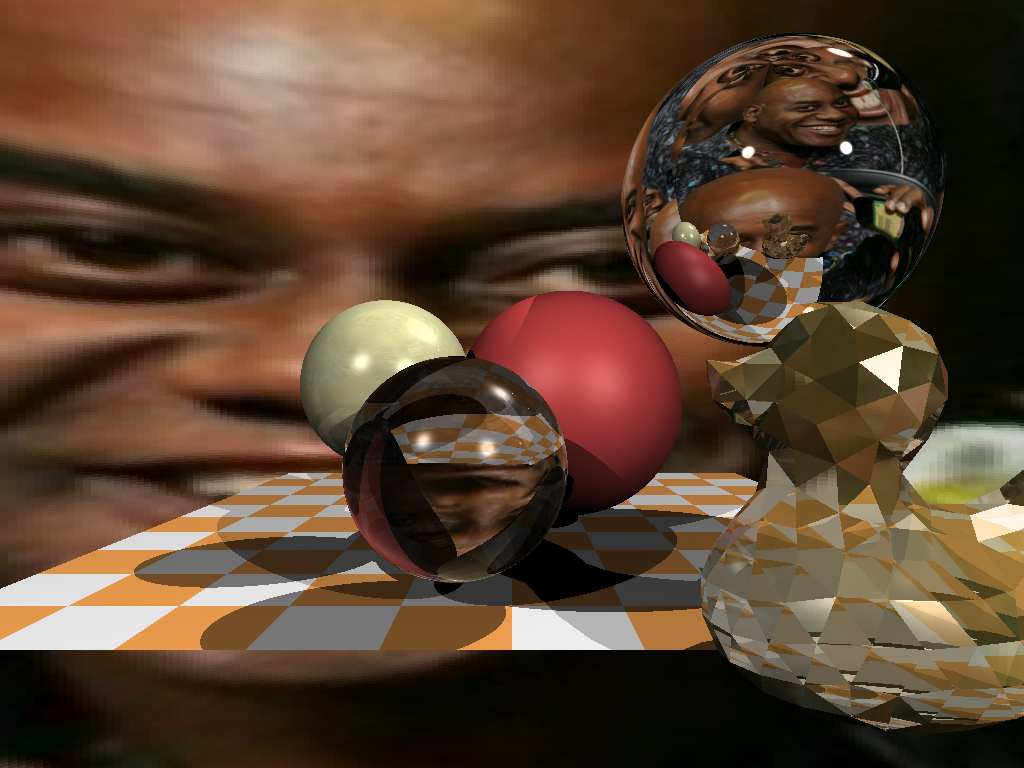
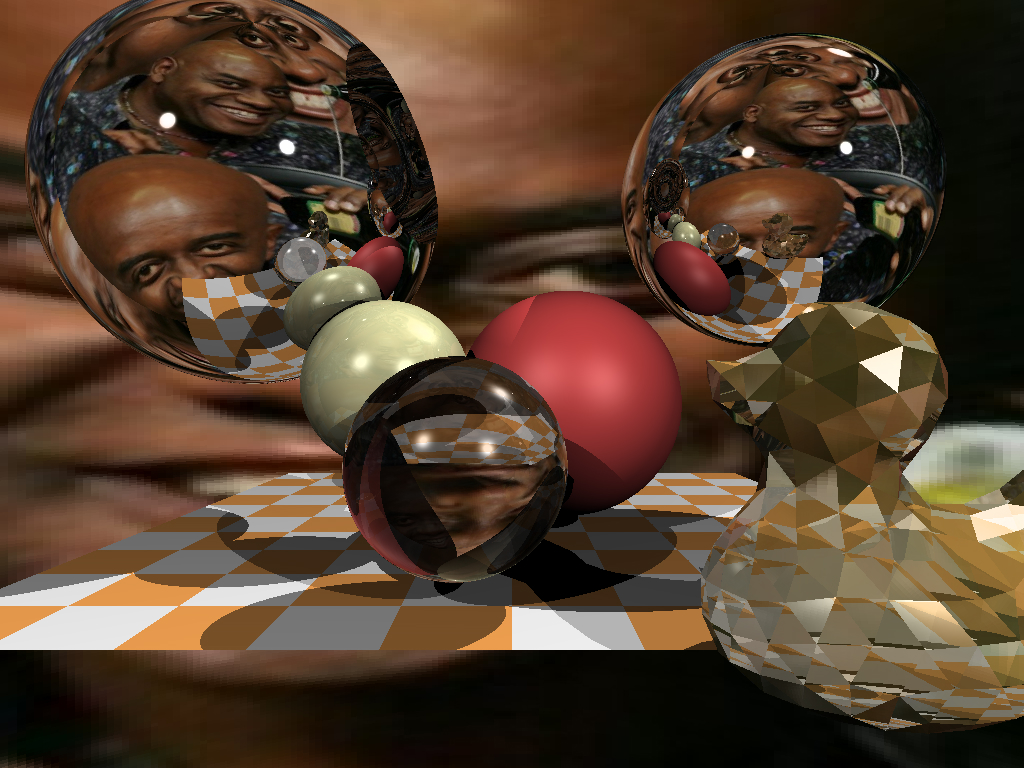
mise en place soustraction de forme

diff --git a/tinyraytracer.cpp b/tinyraytracer.cpp
@@ -52,6 +52,17 @@ struct Sphere {
         if (t0 < 0) return false;
         return true;
     }
+
+    float get_opposed(const Vec3f &orig, const Vec3f &dir) const {
+      Vec3f L = center - orig;
+      float tca = L*dir;
+      float d2 = L*L - tca*tca;
+      float thc = sqrtf(radius*radius - d2);
+      float t0 = tca - thc;
+      float t1 = tca + thc;
+      if (t1 <= 0) t1 = t0;
+      return t1;
+    }
 };
 
 Vec3f reflect(const Vec3f &I, const Vec3f &N) {
@@ -66,15 +77,43 @@ Vec3f refract(const Vec3f &I, const Vec3f &N, const float eta_t, const float eta
     return k<0 ? Vec3f(1,0,0) : I*eta + N*(eta*cosi - sqrtf(k)); // k<0 = total reflection, no ray to refract. I refract it anyways, this has no physical meaning
 }
 
+std::vector<Sphere> sub;
+
 bool scene_intersect(const Vec3f &orig, const Vec3f &dir, const std::vector<Sphere> &spheres, Vec3f &hit, Vec3f &N, Material &material) {
     float spheres_dist = std::numeric_limits<float>::max();
     for (size_t i=0; i < spheres.size(); i++) {
         float dist_i;
+        float dist_i2;
         if (spheres[i].ray_intersect(orig, dir, dist_i) && dist_i < spheres_dist) {
-            spheres_dist = dist_i;
-            hit = orig + dir*dist_i;
-            N = (hit - spheres[i].center).normalize();
-            material = spheres[i].material;
+            for (size_t j=0; j < sub.size(); j++) {
+                float dist = pow(pow(spheres[i].center.x-sub[j].center.x, 2)+pow(spheres[i].center.y-sub[j].center.y, 2)+pow(spheres[i].center.z-sub[j].center.z, 2), 0.5);
+                if(dist<spheres[i].radius+sub[j].radius){
+                    if (sub[j].ray_intersect(orig, dir, dist_i2) && dist_i2 <= spheres_dist) {
+                        if(dist_i<dist_i2){
+                            spheres_dist = dist_i;
+                            hit = orig + dir*(dist_i);
+                            N = (hit - spheres[i].center).normalize();
+                            material = spheres[i].material;
+                        }
+                        else if(sub[j].get_opposed(orig, dir)<spheres[i].get_opposed(orig, dir)){
+                            spheres_dist = sub[j].get_opposed(orig, dir);
+                            hit = orig + dir*sub[j].get_opposed(orig, dir);
+                            N = (hit - sub[j].center).normalize();
+                            material = spheres[i].material;
+                        }
+                    }else{
+                        spheres_dist = (dist_i);
+                        hit = orig + dir*(dist_i);
+                        N = (hit - spheres[i].center).normalize();
+                        material = spheres[i].material;
+                    }
+                }else{
+                    spheres_dist = dist_i;
+                    hit = orig + dir*dist_i;
+                    N = (hit - spheres[i].center).normalize();
+                    material = spheres[i].material;
+                }
+            }
         }
     }
 
@@ -201,12 +240,16 @@ int main() {
     spheres.push_back(Sphere(Vec3f(-3,    0,   -16), 2,      ivory));
     spheres.push_back(Sphere(Vec3f(-1.0, -1.5, -12), 2,      glass));
     spheres.push_back(Sphere(Vec3f( 1.5, -0.5, -18), 3, red_rubber));
+    spheres.push_back(Sphere(Vec3f( -7, 5, -18), 5,         mirror));
     spheres.push_back(Sphere(Vec3f( 7,    5,   -18), 4,     mirror));
 
     std::vector<Light>  lights;
     lights.push_back(Light(Vec3f(-20, 20,  20), 1.5));
     lights.push_back(Light(Vec3f( 30, 50, -25), 1.8));
     lights.push_back(Light(Vec3f( 30, 20,  30), 1.7));
+
+    sub.push_back(Sphere(Vec3f(-3,    6,   -17), 2.5,      red_rubber));
+
     render(spheres, lights);
 
     return 0;

diff --git a/Readme.md b/Readme.md
@@ -1,0 +1,28 @@
+# Homework assignment
+
+Add environment maps:
+![](https://raw.githubusercontent.com/ssloy/tinyraytracer/homework_assignment/out-envmap.jpg)
+
+... and triangulated meshes:
+![](https://raw.githubusercontent.com/ssloy/tinyraytracer/homework_assignment/out-envmap-duck.jpg)
+
+All the boring code (image/obj files serializer etc) is already there; to obtain the above image it suffices to add 10-20 lines of code.
+
+
+## compilation
+```sh
+git clone --recurse-submodules https://github.com/ssloy/tinyraytracer.git
+cd tinyraytracer
+git checkout homework_assignment
+git submodule update --init
+mkdir build
+cd build
+cmake ..  
+make
+```
+You can open the project in Gitpod, a free online dev evironment for GitHub:
+
+[![Open in Gitpod](https://gitpod.io/button/open-in-gitpod.svg)](https://gitpod.io/#https://github.com/ssloy/tinyraytracer/tree/homework_assignment)
+
+On open, the editor will compile & run the program as well as open the resulting image in the editor's preview.
+Just change the code in the editor and rerun the script (use the terminal's history) to see updated images.
